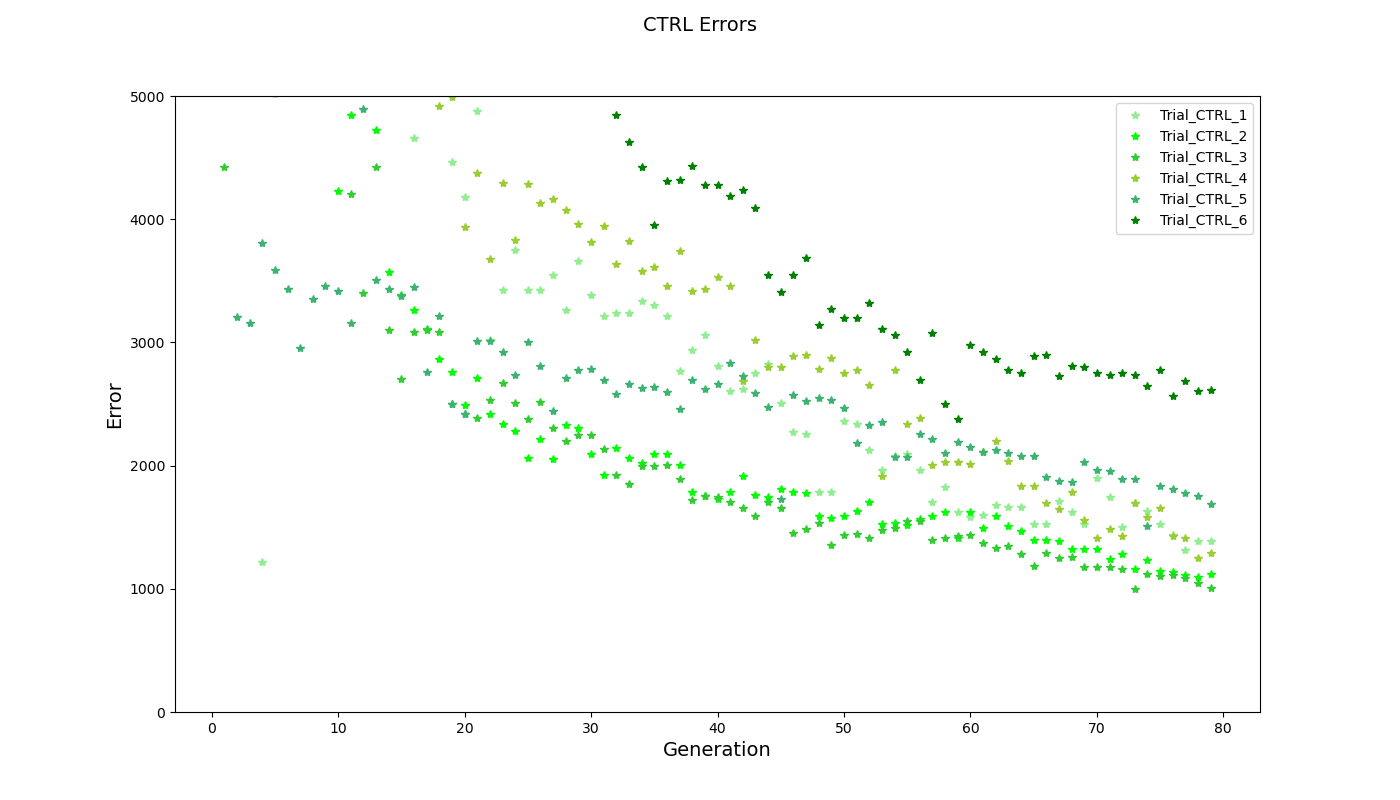
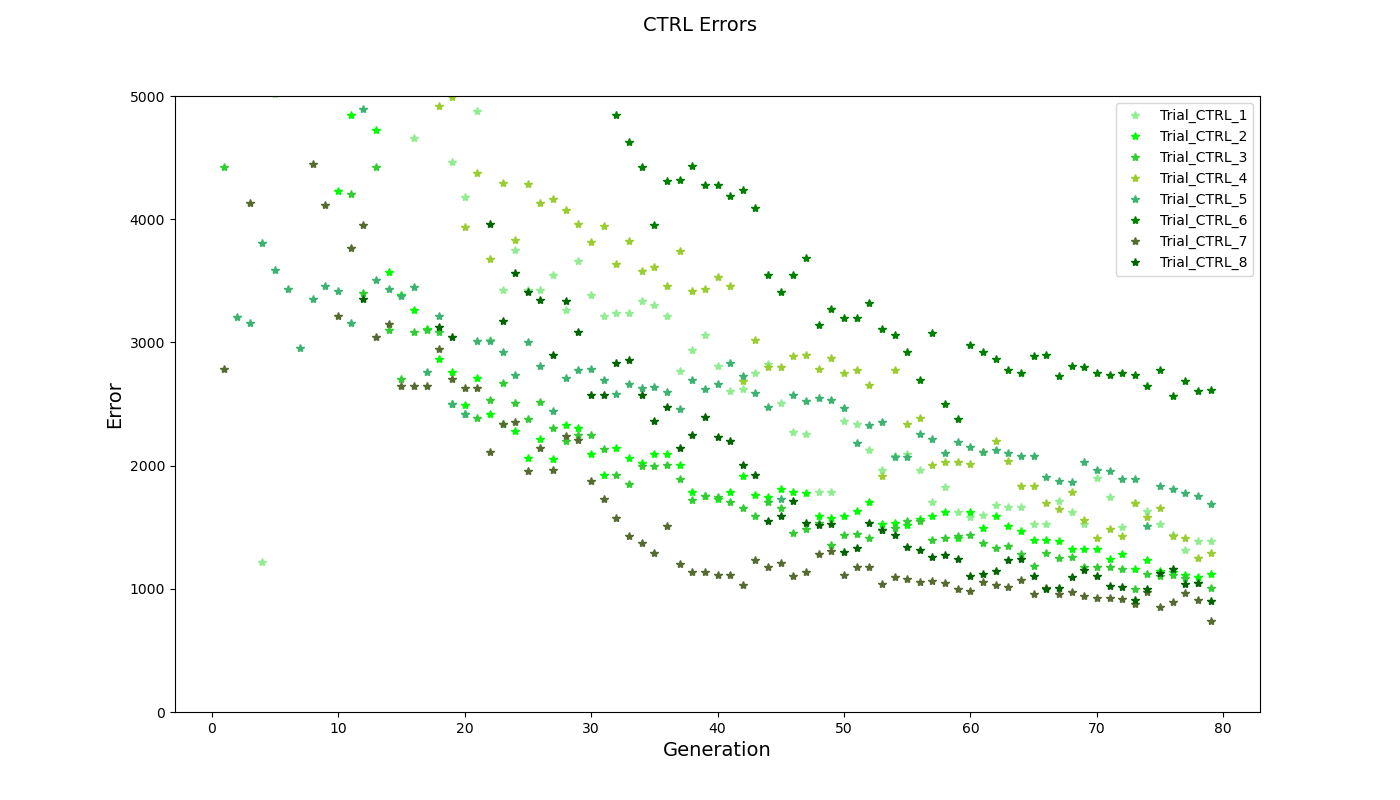
newcurrents

diff --git a/GA_bNa_bCa_NaK/currents.py b/GA_bNa_bCa_NaK/currents.py
@@ -1,23 +1,23 @@
 #%%
 import matplotlib.pyplot as plt
-from functions import err_excel, currents, ind_excel
+from functions import err_excel, currents, ind_excel, baseline_run
 
 #%%
 
-###### PLOT ERRORS, COMPARE WITH AP FEATURES ########
+###### PLOT ERRORS, FOR COMPARISON WITH AP FEATURES ########
 
 ######## HCM ERRORS ############
 plt.figure(figsize=(14,8))
 
 gen = [i for i in list(range(1,80))]
 
-err_1, err_2, err_3, err_4, err_5, err_6, err_7, err_8, err_9, err_10, err_ctrl1, err_ctrl2, err_ctrl3, err_ctrl4, err_ctrl5, err_ctrl6 = err_excel()
+err_1, err_2, err_3, err_4, err_5, err_6, err_7, err_8, err_9, err_10, err_ctrl1, err_ctrl2, err_ctrl3, err_ctrl4, err_ctrl5, err_ctrl6, err_ctrl7, err_ctrl8 = err_excel()
 
 err_HCM = [err_1, err_2, err_3, err_4, err_5, err_6, err_7, err_8, err_9, err_10]
-err_CTRL = [err_ctrl1, err_ctrl2, err_ctrl3, err_ctrl4, err_ctrl5, err_ctrl6]
+err_CTRL = [err_ctrl1, err_ctrl2, err_ctrl3, err_ctrl4, err_ctrl5, err_ctrl6, err_ctrl7, err_ctrl8]
 
 c_HCM = ['lightsteelblue', 'cyan', 'cornflowerblue', 'c', 'darkturquoise', 'dodgerblue', 'blue', 'royalblue', 'midnightblue', 'darkblue']
-c_CTRL = ['lightgreen', 'lime', 'limegreen', 'yellowgreen', 'mediumseagreen', 'green', 'darkolivegreen' 'darkgreen', 'forestgreen','seagreen']
+c_CTRL = ['lightgreen', 'lime', 'limegreen', 'yellowgreen', 'mediumseagreen', 'green', 'darkolivegreen', 'darkgreen', 'forestgreen','seagreen']
 
 for i in list(range(0,len(err_HCM))):
     best_err = list(err_HCM[i]['Best Error'])
@@ -48,24 +48,44 @@ plt.show()
 
 #%%
 
-########## PLOT CURRENTS ###########
-plt.figure(figsize=(14,8))
+############ PLOT CURRENTS #############
+fig, axs = plt.subplots(4, 1, figsize=(16, 8))
 
-ind_1, ind_2, ind_3, ind_4, ind_5, ind_6, ind_7, ind_8, ind_9, ind_10, ind_ctrl1, ind_ctrl2, ind_ctrl3, ind_ctrl4, ind_ctrl5, ind_ctrl6 = ind_excel()
+ind_1, ind_2, ind_3, ind_4, ind_5, ind_6, ind_7, ind_8, ind_9, ind_10, ind_ctrl1, ind_ctrl2, ind_ctrl3, ind_ctrl4, ind_ctrl5, ind_ctrl6, ind_ctrl7, ind_ctrl8 = ind_excel()
 pop_HCM = [ind_1, ind_2, ind_3, ind_4, ind_5, ind_6, ind_7, ind_8, ind_9, ind_10]
-pop_CTRL = [ind_ctrl1, ind_ctrl2, ind_ctrl3, ind_ctrl4, ind_ctrl5, ind_ctrl6]
+pop_CTRL = [ind_ctrl1, ind_ctrl2, ind_ctrl3, ind_ctrl4, ind_ctrl5, ind_ctrl6, ind_ctrl7, ind_ctrl8]
 
 for i in list(range(0,len(pop_HCM))):
     t, v, iks, ikr, ical, ina = currents(pop_HCM[i])
-    plt.plot(t, iks, color=c_HCM[i], label = f'Trial_HCM_{i+1}')
-    plt.plot(t, ikr, color=c_HCM[i], label = f'Trial_HCM_{i+1}')
-    plt.plot(t, ical, color=c_HCM[i], label = f'Trial_HCM_{i+1}')
-    plt.plot(t, ina, color=c_HCM[i], label = f'Trial_HCM_{i+1}')
+    axs[0].plot(t, iks, color=c_HCM[i], label = f'Trial_HCM_{i+1}')
 
-plt.legend(loc='upper right')
-plt.ylabel('Time (ms)', fontsize=14)
-plt.xlabel('Current (A/F)', fontsize=14)
-plt.ylim(0,5000)
-plt.suptitle('HCM Currents', fontsize=14)
+axs[0].legend(fontsize = 5, loc='upper right')
+axs[0].set_ylabel('iKs (A/F)', fontsize=14)
+
+for i in list(range(0,len(pop_HCM))):
+    t, v, iks, ikr, ical, ina = currents(pop_HCM[i])
+    axs[1].plot(t, ikr, color=c_HCM[i], label = f'Trial_HCM_{i+1}')
+
+axs[1].legend(fontsize = 5, loc='upper right')
+axs[1].set_ylabel('iKr (A/F)', fontsize=14)
+
+for i in list(range(0,len(pop_HCM))):
+    t, v, iks, ikr, ical, ina = currents(pop_HCM[i])
+    axs[2].plot(t, ical, color=c_HCM[i], label = f'Trial_HCM_{i+1}')
+
+axs[2].legend(fontsize = 5, loc='upper right')
+axs[2].set_ylabel('iCaL (A/F)', fontsize=14)
+
+for i in list(range(0,len(pop_HCM))):
+    t, v, iks, ikr, ical, ina = currents(pop_HCM[i])
+    axs[3].plot(t, ina, color=c_HCM[i], label = f'Trial_HCM_{i+1}')
+
+axs[3].legend(fontsize = 5, loc='upper right')
+axs[3].set_ylabel('iNa (A/F)', fontsize=14)
+axs[3].set_xlabel('Time (ms)', fontsize=14)
+
+plt.suptitle('HCM Currents', fontsize=20)
 plt.savefig('HCM_Currents.png')
 plt.show()
+
+

diff --git a/GA_bNa_bCa_NaK/plot_GA.py b/GA_bNa_bCa_NaK/plot_GA.py
@@ -15,12 +15,12 @@ fig, axs = plt.subplots(1, 2, figsize=(20, 6))
 t, v = baseline_run()
 axs[0].plot(t, v, '-k', label = 'Baseline')
 
-ind_1, ind_2, ind_3, ind_4, ind_5, ind_6, ind_7, ind_8, ind_9, ind_10, ind_ctrl1, ind_ctrl2, ind_ctrl3, ind_ctrl4, ind_ctrl5, ind_ctrl6 = ind_excel()
+ind_1, ind_2, ind_3, ind_4, ind_5, ind_6, ind_7, ind_8, ind_9, ind_10, ind_ctrl1, ind_ctrl2, ind_ctrl3, ind_ctrl4, ind_ctrl5, ind_ctrl6, ind_ctrl7, ind_ctrl8 = ind_excel()
 
 pop_HCM = [ind_1, ind_2, ind_3, ind_4, ind_5, ind_6, ind_7, ind_8, ind_9, ind_10]
-pop_CTRL = [ind_ctrl1, ind_ctrl2, ind_ctrl3, ind_ctrl4, ind_ctrl5, ind_ctrl6]
+pop_CTRL = [ind_ctrl1, ind_ctrl2, ind_ctrl3, ind_ctrl4, ind_ctrl5, ind_ctrl6, ind_ctrl7, ind_ctrl8]
 c_HCM = ['lightsteelblue', 'cyan', 'cornflowerblue', 'c', 'darkturquoise', 'dodgerblue', 'blue', 'royalblue', 'midnightblue', 'darkblue']
-c_CTRL = ['lightgreen', 'lime', 'limegreen', 'yellowgreen', 'mediumseagreen', 'green', 'darkolivegreen' 'darkgreen', 'forestgreen','seagreen']
+c_CTRL = ['lightgreen', 'lime', 'limegreen', 'yellowgreen', 'mediumseagreen', 'green', 'darkolivegreen', 'darkgreen', 'forestgreen','seagreen']
 
 for i in list(range(0,len(pop_HCM))):
     t, v = plot_GA(pop_HCM[i])
@@ -33,10 +33,10 @@ axs[0].set_xlabel('Time (ms)', fontsize=14)
 ############ PLOT BEST ERROR HCM ################
 gen = [i for i in list(range(1,80))]
 
-err_1, err_2, err_3, err_4, err_5, err_6, err_7, err_8, err_9, err_10, err_ctrl1, err_ctrl2, err_ctrl3, err_ctrl4, err_ctrl5, err_ctrl6 = err_excel()
+err_1, err_2, err_3, err_4, err_5, err_6, err_7, err_8, err_9, err_10, err_ctrl1, err_ctrl2, err_ctrl3, err_ctrl4, err_ctrl5, err_ctrl6, err_ctrl7, err_ctrl8 = err_excel()
 
 err_HCM = [err_1, err_2, err_3, err_4, err_5, err_6, err_7, err_8, err_9, err_10]
-err_CTRL = [err_ctrl1, err_ctrl2, err_ctrl3, err_ctrl4, err_ctrl5, err_ctrl6]
+err_CTRL = [err_ctrl1, err_ctrl2, err_ctrl3, err_ctrl4, err_ctrl5, err_ctrl6, err_ctrl7, err_ctrl8]
 
 for i in list(range(0,len(err_HCM))):
     best_err = list(err_HCM[i]['Best Error'])

diff --git a/GA_bNa_bCa_NaK/functions.py b/GA_bNa_bCa_NaK/functions.py
@@ -32,7 +32,7 @@ def plot_GA(ind):
     end_ap = start_ap + max_idx
 
     v_leak = np.array(dat['membrane.V'][start_ap:end_ap])
-    
+
     return t_leak,v_leak
 
 #%%
@@ -87,7 +87,12 @@ def baseline_run():
     v_leak = np.concatenate((v_leak, v_array))
     t_leak = np.concatenate((t_leak, t_array))
 
-    return t_leak, v_leak
+    iks = np.array(dat['iks.i_Ks'][0:917])
+    ikr = np.array(dat['ikr.i_Kr'][0:917])
+    ical = np.array(dat['ical.i_CaL'][0:917])
+    ina = np.array(dat['ina.i_Na'][0:917])
+
+    return t_leak, v_leak, iks, ikr, ical, ina
 
 #%%
 def build_pop(pop):
@@ -174,7 +179,13 @@ def ind_excel():
     ind_ctrl6 = pd.read_excel('Best_ind_ctrl6.xlsx')
     ind_ctrl6 = ind_ctrl6.to_dict('index')
 
-    return ind_1, ind_2, ind_3, ind_4, ind_5, ind_6, ind_7, ind_8, ind_9, ind_10, ind_ctrl1, ind_ctrl2, ind_ctrl3, ind_ctrl4, ind_ctrl5, ind_ctrl6
+    ind_ctrl7 = pd.read_excel('Best_ind_ctrl7.xlsx')
+    ind_ctrl7 = ind_ctrl7.to_dict('index')
+
+    ind_ctrl8 = pd.read_excel('Best_ind_ctrl8.xlsx')
+    ind_ctrl8 = ind_ctrl8.to_dict('index')
+
+    return ind_1, ind_2, ind_3, ind_4, ind_5, ind_6, ind_7, ind_8, ind_9, ind_10, ind_ctrl1, ind_ctrl2, ind_ctrl3, ind_ctrl4, ind_ctrl5, ind_ctrl6, ind_ctrl7, ind_ctrl8
 
 #%%
 def err_excel():
@@ -211,7 +222,11 @@ def err_excel():
 
     err_ctrl6 = pd.read_excel('Errors_ctrl6.xlsx')
 
-    return err_1, err_2, err_3, err_4, err_5, err_6, err_7, err_8, err_9, err_10, err_ctrl1, err_ctrl2, err_ctrl3, err_ctrl4, err_ctrl5, err_ctrl6
+    err_ctrl7 = pd.read_excel('Errors_ctrl7.xlsx')
+
+    err_ctrl8 = pd.read_excel('Errors_ctrl8.xlsx')
+
+    return err_1, err_2, err_3, err_4, err_5, err_6, err_7, err_8, err_9, err_10, err_ctrl1, err_ctrl2, err_ctrl3, err_ctrl4, err_ctrl5, err_ctrl6, err_ctrl7, err_ctrl8
 
 #%%
 def stim(ind):

diff --git a/GA_bNa_bCa_NaK/AP_features.py b/GA_bNa_bCa_NaK/AP_features.py
@@ -7,9 +7,9 @@ import matplotlib.pyplot as plt
 
 #%%
 
-ind_1, ind_2, ind_3, ind_4, ind_5, ind_6, ind_7, ind_8, ind_9, ind_10, ind_ctrl1, ind_ctrl2, ind_ctrl3, ind_ctrl4, ind_ctrl5, ind_ctrl6 = ind_excel()
+ind_1, ind_2, ind_3, ind_4, ind_5, ind_6, ind_7, ind_8, ind_9, ind_10, ind_ctrl1, ind_ctrl2, ind_ctrl3, ind_ctrl4, ind_ctrl5, ind_ctrl6, ind_ctrl7, ind_ctrl8 = ind_excel()
 pop_HCM = [ind_1, ind_2, ind_3, ind_4, ind_5, ind_6, ind_7, ind_8, ind_9, ind_10]
-pop_CTRL = [ind_ctrl1, ind_ctrl2, ind_ctrl3, ind_ctrl4, ind_ctrl5, ind_ctrl6]
+pop_CTRL = [ind_ctrl1, ind_ctrl2, ind_ctrl3, ind_ctrl4, ind_ctrl5, ind_ctrl6, ind_ctrl7, ind_ctrl8]
 
 ############## HCM FEATURES ###############
 
